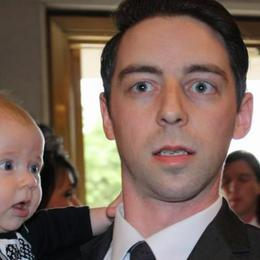
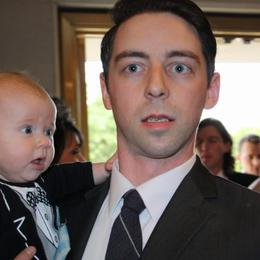
Change default image

diff --git a/app/helpers/members_helper.rb b/app/helpers/members_helper.rb
@@ -7,9 +7,9 @@ module MembersHelper
 		children = []
 		id = add_member.birthdate.to_time.to_i + rand(1000000)
 
-		name = "<div class='tree_image_block'>#{ image_tag( add_member.image_url( :medium), class: 'img-rounded tree_image') }"
+		name = "<div class='tree_image_block'>#{ image_tag( add_member.image_url( :small), class: 'img-rounded tree_image') }"
 		if add_member.has_spouse?
-			name += "#{ image_tag( add_member.spouse.image_url( :medium), class: 'img-rounded tree_image') }"
+			name += "#{ image_tag( add_member.spouse.image_url( :small), class: 'img-rounded tree_image') }"
 		end
 		# add link to switch to member's other divorced parent's tree
 		if add_member.parents.count==2 && !(add_member.parents.first.spouse == add_member.parents.last)

diff --git a/app/uploaders/image_uploader.rb b/app/uploaders/image_uploader.rb
@@ -41,6 +41,11 @@ class ImageUploader < CarrierWave::Uploader::Base
 		resize_to_fill(75,75)
 	end
 	
+	version :small do
+		process :crop
+		resize_to_fill(160,160)
+	end
+	
 	version :medium do
 		process :crop
 		resize_to_fill(260,260)
